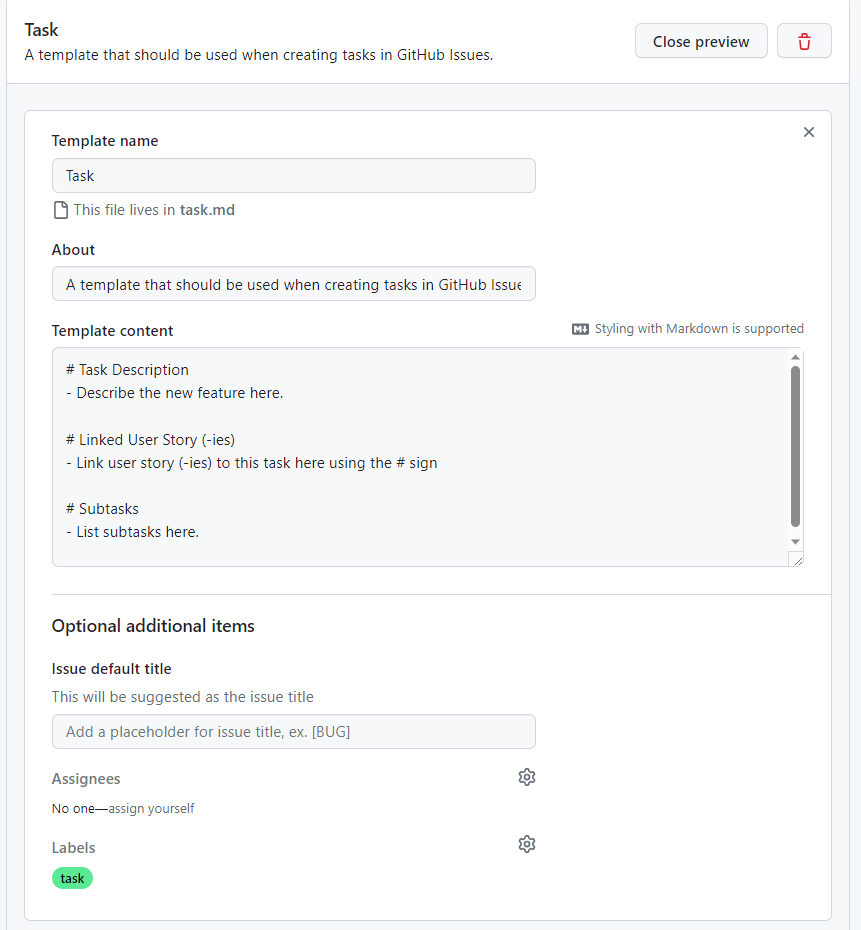
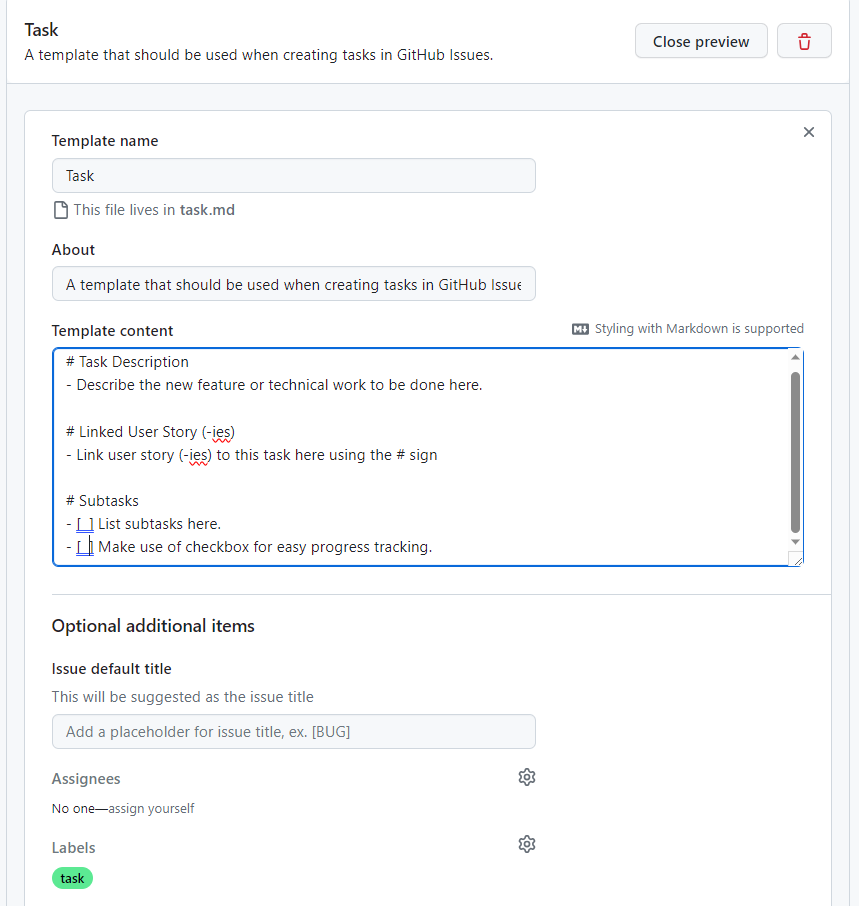
added spike info

diff --git a/github-agile.md b/github-agile.md
@@ -12,29 +12,47 @@ GitHub is a repository management service that has taken over the development wo
 
 We will start off by creating a "user story" label that will be used to tag issues that represent user stories in our repository.
 
-Navigate to an existing GitHub repository or create a new one for the purposes of this learning module. 
+You can create labels for one repository only or you can add them to the default labels of your organization so that they are automatically added to all future repositories created in that organization.
 
-Click the **Issues** button in the navigation bar 
+**To add labels to one repository only:**
+
+1. Navigate to an existing GitHub repository or create a new one for the purposes of this learning module. 
+
+2. Click the **Issues** button in the navigation bar 
 ![issues-button](assets/img/issues-button.png)
 
-Then click the **Labels** button in top right corner. 
+3. Then click the **Labels** button in top right corner. 
  ![labels-button](assets/img/labels-button.png)
 
-Click the **New label** button to create a new label and fill out the fields as shown below:
-- **Label name:** user story
-- **Description:** A label that indicates that an issue is a valid user story
-- **Color:** any color that is not already used for another label
+**To add default labels to your organization:**
+
+1. In the top right corner of GitHub.com, click your **profile photo**, then click **Your organizations**.
+2. Next to the organization, click **Settings**.
+3. In the "Code, planning, and automation" section of the sidebar, select **Repository**, then click **Repository defaults**.
+
+4. Click the **New label** button to create a new label and fill out the fields as shown below:
+	- **Label name:** user story
+	- **Description:** A label that indicates that an issue is a valid user story
+	- **Color:** any color that is not already used for another label
 
 ![user-story-label](assets/img/user-story-label.png)
 
-Finally, click the **Create label** button to create the new label.
+5. Finally, click the **Create label** button to create the new label.
 
-Repeat the steps above to create task label:
-- **Label name:** task
-- **Description:** A label that indicates that an issue is a task
-- **Color:** any color that is not already used for another label
+Repeat the steps above to create the task and spike labels:
+- **Task Label:**
+	- **Label name:** task
+	- **Description:** A label that indicates that an issue is a task
+	- **Color:** any color that is not already used for another label
 
 ![task-label](assets/img/task-label.png)
+
+- **Spike Label:**
+	- **Label name:** spike
+	- **Description:** A label that indicates that an issue is a spike
+	- **Color:** any color that is not already used for another label
+
+![spike-label](assets/img/spike-label.png)
 
 Repeat this process above and create 4 new labels detailed the different priority levels of the MoSCoW model as shown below:
 - **Must Have**:
@@ -134,21 +152,43 @@ Repeat the process outlined above to create the task template with the following
 - **Template name:** Task
 - **About:** A template that should be used when creating tasks in GitHub Issues.
 - **Description:**
+
 ```
 # Task Description
-- Describe the new feature here.  
+- Describe the new feature or technical work to be done here.  
 
 # Linked User Story (-ies)
 - Link user story (-ies) to this task here
 
 # Subtasks
-- List subtasks here. 
-
+- [ ] List subtasks here.
+- [ ] Make use of checkbox for easy progress tracking.
 ```
+
 - **Label:** task
 
 ![task-template](assets/img/task-template.png)
 
+Repeat this process one final time to create the spike template with the following information:
+- **Template name:** Spike
+- **About:** A template that should be used when creating spikes in GitHub Issues.
+- **Description:**
+
+```
+# Spike Description
+- Describe the tool, library, framework, etc. that you want to explore and explain why it is needed for the project.  
+
+# Linked User Story (-ies)
+- Link user story (-ies) to this task here
+
+# Subtasks
+- [ ] List subtasks here.
+- [ ] Make use of checkbox for easy progress tracking.
+```
+
+- **Label:** spike
+
+![spike-template](assets/img/spike-template.png)
 ## Create Pull Request Templates
 
 We will now create the templates for feature pull requests and bug fix pull requests:
@@ -158,19 +198,18 @@ We will now create the templates for feature pull requests and bug fix pull requ
 3. Enter `.github/PULL_REQUEST_TEMPLATE/feature_pr_template.md` in the name field
 4. Add the following content to the file 
 ```
-# Feature Title
-
 ### Feature Description
-Describe the new feature here.  
+- Describe the new feature here.  
 
 ### Expected Behavior
-Describe the expected behavior here.  
+- Describe the expected behavior here.  
 
 ### Test Cases
-Detail the test cases you used.  
+- [ ] Detail the test cases you used.
+- [ ] Make use of checkboxes to help the developers who is doing the testing keep track of their progress
 
 ### Additional Information
-Describe the addition changes/steps you took, for example the SQL commands used for adding a column in database table.  
+- Describe the addition changes/steps you took, for example the SQL commands used for adding a column in database table.   
 
 ```
 5. Click commit changes to the save the file.
@@ -182,22 +221,23 @@ Repeat the process above to create the bug fix pull request template using the f
 # Bug Fix Title
 
 ### Issue Description
-Describe the issue here.  
+- Describe the issue here.  
 
 ### Steps to Reproduce
-Provide a step-by-step guide to reproducing the issue.
+- Provide a step-by-step guide to reproducing the issue.
 
 ### Expected Behavior
-Describe the expected behavior here.  
+- Describe the expected behavior here.  
 
 ### Solution/Fix Description
-Describe what approaches are taken to fix/mitigate the issue.  
+-Describe what approaches are taken to fix/mitigate the issue.  
 
 ### Test Cases
-Detail the test cases you used.  
+- [ ] Detail the test cases you used.
+- [ ] Make use of checkboxes to help the developers who is doing the testing keep track of their progress
 
 ### Additional Information
-Describe the addition changes/steps you took, for example the SQL commands used for adding a column in database table.  
+- Describe the addition changes/steps you took, for example the SQL commands used for adding a column in database table.  
 
 ```
 
@@ -300,6 +340,16 @@ Rename the new view to **Table**. Click the **+** button next to the **Status** 
 ![show-fields](assets/img/show-fields.png)
 
 You can show or hide fields in the future as needed.
+## Disable "Item Closed" Workflow
+
+The default workflows in GitHub Projects automatically move closed issues to the "Done" container. While this may be useful for closed tasks, closed user stories should remain in your Sprint Backlog until the end of the iteration. As such, it makes sense to disable the "Item Closed" workflow.
+
+1. In the top-right corner of your project, click the **ellipses** button to open the menu.
+2. Select **Workflows** from the dropdown menu.
+	![workflows](assets/img/workflows.png)
+3. Under **Default workflows**, select **Item closed**.
+4. Click the blue toggle in top-right corner to turn it off
+	![toggle](assets/img/toggle.png)
 
 ## Save the Project as a Template
 
@@ -317,6 +367,17 @@ In the popup window, select the **Owner**, enter a **Project name** and then cli
 
 Your template is now saved as its own project. Do not use this template project as a real project. Leave it at this stage, so that you can always copy it and use that copy as a starting point for future projects.
 
+Note that you may need to update the iteration field for future projects that use this template to select a different start date or duration.
+
+**To edit the iteration on a future project that uses this template:**
+1. Navigate to your project.
+2. In the top-right, click the three ellipses to open the dropdown menu.
+    
+    ![Screenshot showing a project's menu bar. The menu icon is highlighted with an orange outline.](https://docs.github.com/assets/cb-789/images/help/projects-v2/open-menu.png)
+3. In the menu, click **Settings** to access the project settings.
+4. In the list on the left, click the name of the iteration field you want to adjust.
+5. From this page, you can add or remove iteration as need.
+	![iteration-settings](assets/img/iteration-settings.png)
 ## Create an Example User Story
 
 Now that our template is ready, we will explain how we can use it according to the proposed Agile workflow we devised in the previous section.
@@ -454,6 +515,7 @@ Select Task from the dropdown menu to load in the task template.
 ![slash-task](assets/img/slash-task.png)
 
 Update the task body with the following information:
+
 ```
 # Linked User Story (-ies)
 - #1 
@@ -462,7 +524,7 @@ Update the task body with the following information:
 - Add the ability to sign into the web application using valid MacID credentials
 - We will be using the `msal-react` library to enable SSO using MS Azure
 
-# Subtaks
+# Subtasks
 - Register SPA in MS Azure AD
 - Create environment and authentication configuration files
 - Wrap template in `MsalProvider` component
@@ -492,7 +554,7 @@ The task should be moved through the containers according to the following progr
 2. When the developer is done working on a task, they should create a pull request:
 	1. Go to the **Pull Request** tab on their repository, clicking on **New pull request**.
 	2. Select the source branch
-	3. Add `?template=feature_pr_template.md` or `?template=bugfix_pr_template.md` to the URL
+	3. Add `?template=feature_pr_template.md` or `?template=bugfix_pr_template.md` to the URL and hit the **Enter** key to reload the page
 	4. Click **Create pull request**
 	5. Fill out the **Title** and the **Body** of the pull request
 	6. Click **Create Pull Request**

diff --git a/what-is-agile.md b/what-is-agile.md
@@ -62,7 +62,7 @@ The Agile methodology makes use of several key components listed below:
 
 - **Epics:** An epic is a collection of related user stories that create a large coherent story when combined. If your project management tool does not allow you to keep track of epics in the tool itself, you may want to create a separate document (e.g., Word document) containing your epics. You can then use labels to group user stories that are part of the same epic.
 
-- **Task/Spike:** A single unit of work broken down from a user story. Tasks or spikes are a subsection of user story that help developers identify the steps needed in order to implement a user story.
+- **Task/Spike:** A single unit of work broken down from a user story. Tasks or spikes are a subsection of user story that help developers identify the steps needed in order to implement a user story. A task typically consists of technical software work like writing code, designing a system, creating test data, automating a process, etc. On the other hand, a spike is an exploratory todo item that aims to answer a certain question or explore a potential software tool or library. Spikes can help the developers gain more knowledge about work to be done and reduce uncertainty. Spikes often precede tasks, e.g., a developer who is not familiar with PostgreSQL may want to create a spike called "Try out PostgreSQL and learn how to use it" before the "Create relational database and connect it to frontend client" task. 
 
 - **Sprint/Iteration:** Sprints or iterations are a short designated period of time, usually taking between one to four weeks to complete, during which a team works on a determined set of user stories. The iterative nature of Agile means that the developers will need to continuously repeat sprints until the product is ready. The length of a sprint can vary from one sprint to another depending on the workload and the needs of the customers. At the end of each sprint, the team should reconvene assess the software product to identify the parts that are fully functional and the parts that still require more work, make adjustments, and begin another sprint to improve the product. 
 
